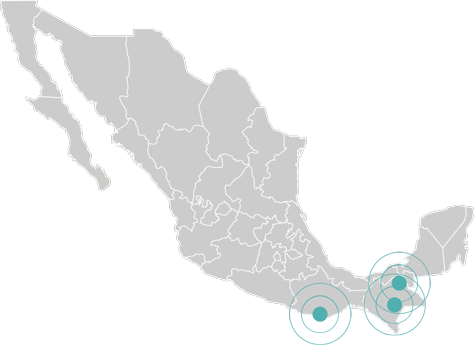
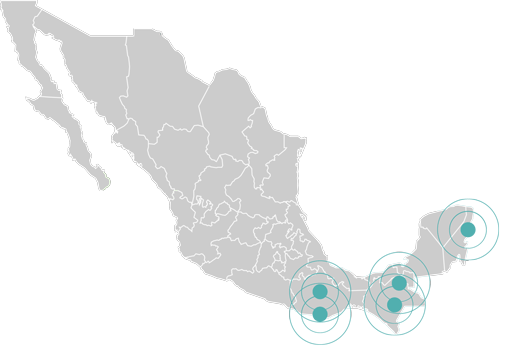
added reiseprogramm, intro texts and info about additional costs on top of the service fee

diff --git a/index.html b/index.html
@@ -50,8 +50,10 @@
         <div id="navbar" class="collapse navbar-collapse navbar-right">
           <ul class="nav navbar-nav">
             <li class="active"><a href="#jumbotron">HOME</a></li>
-            <li><a href="#trip">WAS & WO ?</a></li>
-            <li><a href="#aboutus">MIT WEM?</a></li>
+            <li><a href="#trip">INTRO</a></li>
+            <li><a href="#service">KOSTEN</a></li>
+            <li><a href="#reiseprogramm">REISEPROGRAMM</a></li>
+            <li><a href="#aboutus">ÜBER UNS</a></li>
             <li><a href="#footer">KONTAKT</a></li>
           </ul>
         </div><!--/.nav-collapse -->
@@ -66,12 +68,13 @@
       </div>
     </div>
     <div id="trip">
-        <div class="container intro">
+        <div class="container intromain">
             <div class="row">
               <div class="col-md-6">
                 <div class="checklist">
                   <h2>Yoga, Meer und mehr... </h2>
-                    <p>Verwöhne Dich mit einer Wellnessreise. <br>Komm mit uns zu den schönsten Orten in Mexiko: <br><i class="fa fa-check-square-o"></i> ans <strong>Meer</strong> in Oaxaca,<br><i class="fa fa-check-square-o"></i>  ins <strong>Gebirge</strong> von Chiapas und<br><i class="fa fa-check-square-o"></i> in den <strong>Dschungel</strong> um Palenque. <br> Die Reise verbindet ein offenes Yoga-Wohlfühlprogramm mit einem kultur- und naturorientiertem Urlaub.</p>
+                    <p>Komm mit uns zu den schönsten Orten in Mexiko: <br><i class="fa fa-check-square-o"></i> an die <strong>Karibik</strong>- und <strong>Pazifik</strong>küste,<br><i class="fa fa-check-square-o"></i>  ins <strong>Gebirge</strong> von Chiapas und Oaxaca,<br><i class="fa fa-check-square-o"></i> in den <strong>Dschungel</strong> um Palenque.</p>
+                    <p>Die Reise verbindet ein offenes Yoga-Wohlfühlprogramm mit einem kultur- und naturorientiertem Urlaub.</p>
                 </div>
               </div>
               <div class="col-md-6">
@@ -79,18 +82,41 @@
               </div>
             </div>
         </div>
-    </div>
 
-    <div class="container intro"><img src="images/yoga.jpg"><img src="images/wellness.jpg"><img src="images/dschungel.jpg"></div>
+        <!--<hr style="width: 600px; margin-bottom: 90px">-->
 
-    <!-- Packages -->
-    <div id="packages">
-      <div class="container packages">
+        <div class="container intro">
+         <!-- 
+          <div class="row">
+            <div class="col-md-4"><img src="images/yoga.jpg"></div>
+            <div class="col-md-8 vmiddle"><strong>Tinas Yogastil</strong> ist geprägt durch ihre persönliche Entwicklung und beinhaltet <strong>Elemente des Tanzes</strong> sowie <strong>Übungen der Körperwahrnehmung</strong>. Auf der Basis von <strong>Hatha Yoga</strong> verbindet sie die jeweiligen <strong>Asanas (Yogastellungen) mit fließenden Bewegungen</strong>, der Schwerpunkt liegt auf der Einheit von Atem und Bewegung. Jede Yogastunde kann so gestaltet werden, dass Anfänger sowie erfahrene Yogapraktizierende davon profitieren.</div>
+          </div>
+          <div class="row">
+            <div class="col-md-8 vmiddle">Besonders im magischen Ort San Cristobal de las Casas gibt es <strong>vielfältige Wellnessangebote</strong>. Wir vermitteln die uns bekannten <strong>Massagetherapeuten, Astrologen oder indianischen Heiler</strong>, wir organisieren die Teilnahme an einem traditionellen <strong>Temascal</strong> (Maya-Schwitzhütte) oder organisieren einen Ausflug zu den heilenden Schwefelbädern.</div>
+            <div class="col-md-4"><img src="images/wellness.jpg"></div>
+          </div>
+          <div class="row">
+            <div class="col-md-4"><img src="images/dschungel.jpg"></div>
+            <div class="col-md-8 vmiddle">In <strong>Chiapas</strong> und <strong>Oaxaca</strong> gibt es viel zu sehen und erleben. Die malerischen <strong>Ruinen der alten Maya-Städte</strong> und <strong>die gegenwärtigen Maya-Dörfer</strong>, wo die alten Traditionen und Bräuche von den Einheimischen noch gepflegt werden, <strong>die bunten Kolonialstädte</strong>, <strong>die abwechslungsreichen Landschaften</strong>, all das und noch mehr, hinterlässt unvergessliche Erinnerungen.
+            </div>
+          </div>
+          -->
+
+          <div class="row">
+            <div class="col-md-4"><img src="images/yoga.jpg"><h2>Yoga</h2><strong>Tinas Yogastil</strong> ist geprägt durch ihre persönliche Entwicklung und beinhaltet <strong>Elemente des Tanzes</strong> sowie <strong>Übungen der Körperwahrnehmung</strong>. Auf der Basis von <strong>Hatha Yoga</strong> verbindet sie die jeweiligen <strong>Asanas (Yogastellungen) mit fließenden Bewegungen</strong>, der Schwerpunkt liegt auf der Einheit von Atem und Bewegung. Jede Yogastunde kann so gestaltet werden, dass Anfänger sowie erfahrene Yogapraktizierende davon profitieren.</div>
+            <div class="col-md-4"><img src="images/wellness.jpg"><h2>Wellness</h2>Besonders im magischen Ort San Cristobal de las Casas gibt es <strong>vielfältige Wellnessangebote</strong>. Wir vermitteln die uns bekannten <strong>Massagetherapeuten, Astrologen oder indianischen Heiler</strong>, wir organisieren die Teilnahme an einem traditionellen <strong>Temascal</strong> (Maya-Schwitzhütte) oder organisieren einen Ausflug zu den heilenden Schwefelbädern.</div>
+            <div class="col-md-4"><img src="images/dschungel.jpg"><h2>Mexiko</h2>In diesem wunderschönen, an Kultur und Geschichte reichen Land gibt es viel zu sehen und erleben. Die malerischen <strong>Ruinen der alten Maya-Städte</strong> und <strong>die gegenwärtigen Maya-Dörfer</strong>, wo die alten Traditionen und Bräuche von den Einheimischen noch gepflegt werden, <strong>die bunten Kolonialstädte</strong>, <strong>die abwechslungsreichen Landschaften</strong>, all das und noch mehr, hinterlässt unvergessliche Erinnerungen.</div>
+          </div>
+        </div>
+
+    <!-- Service -->
+    <div id="service">
+      <div class="container service">
         <div class="row">
           <div class="col-md-7 col-md-offset-1">
             <div class="checklist">
-              <h2>Enthaltene Leistungen</h2>
-                <i class="fa fa-check-square-o"></i> täglicher Yogaunterricht (1-2 Stunden am Tag, je nach Bedarf)<br>
+              <h2>Unser Service</h2>
+                <i class="fa fa-check-square-o"></i> täglicher Yogaunterricht (2-3 Stunden am Tag, je nach Bedarf)<br>
                 <i class="fa fa-check-square-o"></i> Reisebegleitung in Deutsch, Englisch, Spanisch und Polnisch<br>
                 <i class="fa fa-check-square-o"></i> Vermittlung der Wellnessangebote<br>
                 <i class="fa fa-check-square-o"></i> Unterstützung bei der Flug-, Hotel-, Transfersuche<br>
@@ -101,7 +127,95 @@
             <img src="images/price.png">         
           </div>
         </div>
-        <div class="smallprint">* Der Preis von 39€ pro Tag, pro Person, gilt bei einer Gruppe von 7 bis 8 Personen. Falls sich nur 5 bis 6 Personen anmelden, steigt der tägliche Preis auf 49€ pro Person. Falls sich weniger als 5 Personen registrieren, findet die Reise leider nicht statt. Der Preis enthält nur die oben aufgelisteten Leistungen, weder ein Flugticket noch eine Reiseversicherung.</div>
+        <div class="smallprint">
+        * Der Preis von 39€ pro Tag, pro Person, gilt bei einer Gruppe von 7 bis 10 Personen. Falls sich nur 5 bis 6 Personen anmelden, steigt der tägliche Preis auf 49€ pro Person. Falls sich weniger als 5 Personen registrieren, findet die Reise leider nicht statt. Der Preis enthält nur die oben aufgelisteten Leistungen, weder ein Flugticket noch eine Reiseversicherung.
+        </div>
+      </div>
+    </div>
+        
+<!-- Costs -->
+    <div id="costs">
+        <div class="container costs">
+          <h2>Weitere Kosten</h2>
+          <div>
+            <p>Wir ermöglichen eine Reise, die jedem Budget gerecht wird und die Preise sind für Dich stets transparent.
+          </div>
+          <div class="row">
+              <div class="col-sm-4">
+                <h3>Unterkunft und Verpflegung</h3> Bei einem Budget von <strong>bis zu 10-20 Euro täglich</strong> bekommst du ein Bett in einem Hostel oder eine Hängematte bei Selbsversorgung, Essen auf dem Markt oder in kleinen einfachen Restaurants; schon <strong>ab 30 Euro täglich</strong> kannst du dir ein hübsches Zimmer im Hotel leisten, Gourmet Restaurants und sonstige Leckereien. Her mit dem schönen Leben!
+              </div>
+              <div class="col-sm-4">
+                <h3>Transfers innerhalb Mexiko</h3> Wir werden vorwiegend mit Bussen und Minivans unterwegs sein. Für die geplannte Route brauchst du <strong>ca. 200 Euro.</strong>
+              </div>
+              <div class="col-sm-4">
+                <h3>Andere Beispielspreise</h3>
+                <div>
+                  <p>Massage: <strong>20 Euro</strong><br>
+                  Tagesausflug: <strong>20-30 Euro</strong><br>
+                  Museumeintritt: <strong>1-5 Euro</strong><br>
+                  Astrologielesung: <strong>20 Euro</strong><br>
+                  Temascal: <strong>15 Euro</strong><br>
+                  Indianischer Heiler: <strong>10-20 Euro</strong><br>
+                  4-Std-Radtour: <strong>25 Euro</strong><br>
+                  Two-Tank-SCUBA-Dive: <strong>90 Euro</strong></p>
+                </div>
+              </div>
+          </div>
+          <p class="smallprint">* Die, in diesem Bereich aufgelisteten Leistungen, werden von Dir vor Ort bezahlt. Das heißt, um die Reise zu reservieren, bazahlst du nur die 39 Euro pro jeden Tag der Reise und dafür erhälst du: Yogastunden, Reiseorganisation, Übersetzung und Begleitung, und unsere mit Dir geteilten Erfahrungen in einem Land der Träume.</p>
+        </div>
+    </div>
+
+<!-- Reiseprogramm -->
+    <div id="reiseprogramm">
+      <div class="container reiseprogramm">
+        <h2>Reiseprogramm - Februar 2017</h2>
+        <div>Das Reiseprogramm beinhaltet viel Freizeit, welches durch optionale Aktivitäten gefüllt werden kann. So kannst du die Tage nach Lust und Laune aktiv oder entspannt verbringen und wir stehen dir jederzeit mit Rat und Info zur Verfügung. Je nach persönlichem Interesse und Budget eröffnet sich während dieser Reise eine Vielzahl an Möglichkeiten. Oder man lässt einfach nur die Seele baumeln beim Erkunden der Natur, Schaukeln in der Hängematte oder beim Baden im Meer.</div>
+        <div class="row reiseprogramm">
+          <div class="col-sm-3">
+            <img src="images/tulum.jpg" width="250px">
+            <h4>TULUM</h4>
+            <p><strong>Tag 1:</strong> Flug an die mexikanische Karibikküste mit Tina und abends Ankunft in Tulum</p>
+            <p><strong>Tag 2:</strong> Entspannen am Strand und <em>Besuch der einzigartig am Meer gelegenen Maya-Fundstätte</em></p>
+            <p><strong>Tag 3:</strong> Schnorcheln oder <em>SCUBA-Tauchen</em> oder <em>Besuch einer Cenote (Höhlensee)</em>. Nachts Transfer nach Palenque.</p>
+            <h4>PALENQUE</h4>
+            <p><strong>Tag 4:</strong> Ankunft im traumhaften tropischen Regenwald; Entspannen, Spaziergang zu den Wasserfällen, Genießen des Dschungels und Schwimmen am Pool.</p>
+            <p><strong>Tag 5:</strong> <em>Besuch der Maya-Stätte Palenque (UNESCO-Weltkulturerbe) und des Maya-Museums</em></p>
+          </div>
+          <div class="col-sm-3">
+            <img src="images/chiapa.jpg" width="250px">
+            <p><strong>Tag 6:</strong> <em>Tagesausflug zu den Wasserfällen Agua-Azul und Misol-Ha</em></p>
+            <h4>SAN CRISTOBAL DE LAS CASAS</h4>
+            <p><strong>Tag 7:</strong> Transfer ins Gebirge in die bunte Kolonialstadt San Cristobal de las Casas mit einer reichen Wellness-Szene</p>
+            <p><strong>Tag 8:</strong> Zur freien Gestaltung: Stadtbummel, Wellness, Museen, Einkaufen</p>
+            <p><strong>Tag 9:</strong> <em>Ausflug zu den Indianerdörfern Chamula & Zinacantan</em></p>
+            <p><strong>Tag 10:</strong> <em>Radtour in die Umgebung mit Karin</em></p>
+            <p><strong>Tag 11:</strong> <em>Bootsfart durch den Cañon del Sumidero und Besichtigung der Kleinstadt Chiapa de Corzo</em></p>
+          </div>
+          <div class="col-sm-3">
+            <img src="images/hierve.jpg" width="250px">
+            <p><strong>Tag 12:</strong> <em>Ausflug zum Chiflon-Wasserfall</em> oder <em>zu den Schwefelbädern</em></p>
+            <p><strong>Tag 13:</strong> <em>Tagesausflug in die alte Maya-Stadt Tonalá</em></p>
+            <p style="color: #D8D8D8">Möglichkeit am Tag 14 zurück nach Deutschland von Tuxtla zu fliegen. Ansonsten fahren wir weiter nach Oaxaca.</p>
+            <h4>STADT OAXACA</h4>
+            <p><strong>Tag 14:</strong> Transfer in die kulturreiche Stadt Oaxaca (UNESCO-Weltkulturerbe)</p>
+            <p><strong>Tag 15:</strong> Stadtbesichtigung</p>
+            <p><strong>Tag 16:</strong> <em>Ausflug zu den versteinerten Wasserfällen und Mineralbädern, Hierve el Agua</em> oder <em>nach Monte Albán, zu der Pyramidensiedlung der Olmeken und Zapoteken</em></p>
+            <p style="color: #D8D8D8">Am Tag 17 Möglichkeit von Oaxaca nach Deutschland zu fliegen und den Besuch am Pazifik auszulassen.</p>
+          </div>          
+          <div class="col-sm-3">
+            <img src="images/oaxaca.jpg" width="250px">
+            <h4>MAZUNTE</h4>
+            <p><strong>Tag 17:</strong> Transfer nach Mazunte, ein kleines Fischerdorf an der Pazifikküste, der viele Yogis und Meditierende anzieht</p>
+            <p><strong>Tag 18:</strong> Erkunden der Gegend, Erholen am Strand, <em>Mexican Turtle Center</em></p>
+            <p><strong>Tag 19:</strong> <em>Boattrip (Beobachten der Delfine, Wale und Schildkröten)</em></p>
+            <p><strong>Tag 20:</strong> Wassersportaktivitäten: Schwimmen oder <em>Surfen</em> oder <em>Riverrafting</em> oder <em>SCUBA-Tauchen</em></p>
+            <h4>PUERTO ESCONDIDO</h4>
+            <p><strong>Tag 21:</strong> Transfer nach Puerto Escondido, Stadtbummel, Strand und <em>Nachtausflug zu der phosphoreszierenden Lagune von Manialtepec</em></p>
+            <p><strong>Tag 22:</strong> Transfer zum Flughafen von Puerto Escondido, Rückflug nach Deutschland</p>
+          </div>
+        </div>
+        <div class="smallprint">Außer den aufgelisteten Tätigkeiten wird jeden Tag morgens und abends oder je nach Bedarf Yoga angeboten (außer am ersten und letzten Tag der Reise), ohne das dadurch zusätzliche Kosten entstehen. An den meisten Tagen können auch Wellnessangebote dazu gebucht werden, sind aber nicht inklusive. Die Transfers, Übernachtungen, Eintrittsgelder oder von lokalen Reiseführern angebotene Tours müssen von den Reiseteilnehmern vor Ort bezahlt werden.</div>
+        <div class="smallprint">Die <em>kursiv</em> im Reiseprogramm vermerkten Aktivitäten sind unsere Empfehlungen für den jeweiligen Tag und können gegen Aufpreis vor Ort gebucht werden.</div>
       </div>
     </div> <!-- /container -->
 
@@ -112,24 +226,25 @@
       <div class="row">
         <div class="col-md-6">
           <img src="images/tina-round.png" width=150px><h2>Tina</h2>
-          <h3>Yogalehrerin, Erzieherin und Mime</h3>
+          <h3>Yogalehrerin und Mime</h3>
           <p>Tina arbeitet in einem spanisch-deutschen Kinderladen und als Yogalehrerin in Berlin. Vor der Geburt ihrer Kinder ist sie viel durch die Welt gereist, spielte Pantomime auf den Straßen von San Fransisco und New York. Sie beschäftigte sich viel mit Tanz und Körperarbeit, und kam auf diesem Wege schließlich zum Yoga. Ihre Yogalehrerausbildung absolvierte sie in Chiapas (Mexiko), wo sie 4 Jahre lang mit Ihren Kindern lebte. Ihr Traum ist es dorthin zurückzukehren. Sie liebt die Vielfältigkeit der Natur Mexikos, die Intensität der Farben und das Lachen der Menschen, die dort leben.</p>
         </div>
         <div class="col-md-6">
           <img src="images/zoe-round.png" width=150px><h2>Zofia</h2>
           <h3>Sprachwissenschaftlerin und Weltenbummlerin</h3>
-          <p>Zofia hat in Polen, Deutschland und Irland gelebt, doch seit 2010 lebt sie mit ihrem Mann und ihren beiden Hunden in Mexiko. Sie bereiste die Yukatán-Halbinsel mit dem Fahrrad und kam mit ihrem 1968-VW-Bus an viele magischen Orte Mexikos. Zofia führte in San Cristobal de las Casas ein kleines Bed&Breakfast, wo sie auch für die Gäste Exkursionen und Transfers organisierte und sie in die lokale Yoga- und Wellness-Szene einführte. In ihrer Freizeit liest sie über Gesundheit, alternative Medizin und Spiritualität. <br>Sie tanzt gerne kubanischen Salsa.</p>
+          <p>Zofia hat in Polen, Deutschland und Irland gelebt, doch seit 2010 lebt sie mit ihrem Mann und ihren beiden Hunden in Mexiko. Sie bereiste die Yukatán-Halbinsel mit dem Fahrrad und kam mit ihrem 1968-VW-Bus an viele magischen Orte Mexikos. Zofia führte in San Cristobal de las Casas ein kleines Bed&Breakfast, wo sie auch für die Gäste Exkursionen und Transfers organisierte und die Reisenden in die lokale Yoga- und Wellness-Szene einführte. In ihrer Freizeit liest sie über Gesundheit, alternative Medizin und Spiritualität. Sie tanzt gerne kubanischen Salsa.</p>
         </div>
       </div>
     </div>    
     </div> 
+    <div class="actioncall"><p>Verwöhne Dich mit einer Wellnessreise</p></div>
 
 
     <footer id="footer">
       <div class="container">
         <h2>Kontakt</h2>  
         <i class="fa fa-envelope-square fa-1x"><span>  tinagruen (at) gmx . net</span></i><br>
-        <i class="fa fa-phone-square fa-1x"><span>  (+49) 157 688 151 26</span></i>
+        <i class="fa fa-phone-square fa-1x"><span>  0175 866 151 26</span></i>
         <p>loslassen genießen entdecken</p>  
       </div>
       <div class="lace">

diff --git a/css/custom.css b/css/custom.css
@@ -1,22 +1,31 @@
 /* Move down content because we have a fixed navbar that is 50px tall */
 body {
  	padding-top: 50px;
-    color: #95959d;
-    font-family: 'Hind Siliguri', sans-serif, Georgia;
-    font-size: 18px;
+  color: #95959d;
+  font-family: Arial Narrow, 'Hind Siliguri', sans-serif, Georgia;
+  font-size: 18px;
 }
 
 h1, h2 {
-    font-family: 'Atma', Georgia;
-    color: #50afaf;
+  font-family: 'Atma', Georgia;
+  color: #50afaf;
 }
 
 h3 {
-    font-family: 'Atma', Georgia;
+  font-family: 'Atma', Georgia;
+  color: #50afaf;
+
+}
+
+h4 {
+  font-family: 'Atma', Georgia;
+  color: #50afaf;
+  margin-top: 0px;
 }
 
 strong {
-    color: #50afaf;
+  color: #50afaf;
+  font-family: 'Atma', Georgia;
 }
 
 #aboutus {
@@ -24,9 +33,8 @@ strong {
     padding-bottom: 50px;
 }
 
-#packages {
+#service {
     background-color: #f5f5f5;
-    padding-top: 30px;
     padding-bottom: 50px;
 }
 
@@ -52,7 +60,7 @@ strong {
 
 #footer span{
     font-size: 1em;
-    font-family: 'Hind Siliguri', sans-serif, Georgia;
+    font-family: Arial Narrow, 'Hind Siliguri', sans-serif, Georgia;
 }
 
 #back-to-top {
@@ -65,9 +73,31 @@ strong {
     color: #95959d;
 }
 
+#costs {
+    background: #dcefef;
+}
+
+#reiseprogramm {
+    background-color: white;
+}
+
+#reiseprogramm strong {
+    color: #95959d;
+    font-family: Arial Narrow, 'Hind Siliguri', sans-serif, Georgia;
+}
+
+.reiseprogramm p{
+    line-height: 18px;
+}
+
+.reiseprogramm img {
+    margin-bottom: 30px;
+}
+
 .fa-thumbs-o-up {
     font-size: 4em;
     color: #50afaf;
+    text-align: left;
 }
 
 .aboutus img {
@@ -105,8 +135,8 @@ strong {
     color: #CD5360;
 }
 
-.intro img {
-    padding: 10px;
+.intromain img {
+    padding: 5px;
 }
 
 .nav {
@@ -115,19 +145,35 @@ strong {
 }
 
 .intro {
-    text-align: center;
     font-family: 'Atma', Georgia;
-    font-size: 1.5em;
+    font-size: 20px;
+    padding-top: 50px;
     padding-bottom: 50px;
+
 }
 
-.packages {
-	text-align: center;
+.intromain p{
+    padding-top: 10px;
+    font-family: 'Atma', Georgia;
+    font-size: 26px;
+}
+
+.service {
     padding-top: 50px;
     padding-bottom: 50px;
 }
 
-.packages p {
+.costs {
+    padding-top: 50px;
+    padding-bottom: 50px;
+}
+
+.reiseprogramm {
+    padding-top: 50px;
+    padding-bottom: 50px;
+}
+
+.service p {
     padding-right: 20px;
     padding-left: 20px;
 }
@@ -155,6 +201,12 @@ strong {
     color: #85c7c7;
 }
 
+.vmiddle {
+    margin-top: 100px;        
+    font-size: 0.8em;
+
+}
+
 .checklist {
     text-align: left;
     margin-left: 50px;
@@ -171,6 +223,13 @@ strong {
   background-image: url('../images/lace-salmon.png');
   height: 74px;
   opacity: 0.2;
+}
+
+.actioncall {
+  color: #e4e4e7;
+  text-align: center;
+  font-family: 'Atma', Georgia;
+  font-size: 1.5em;
 }
 
 /* Google font: */
